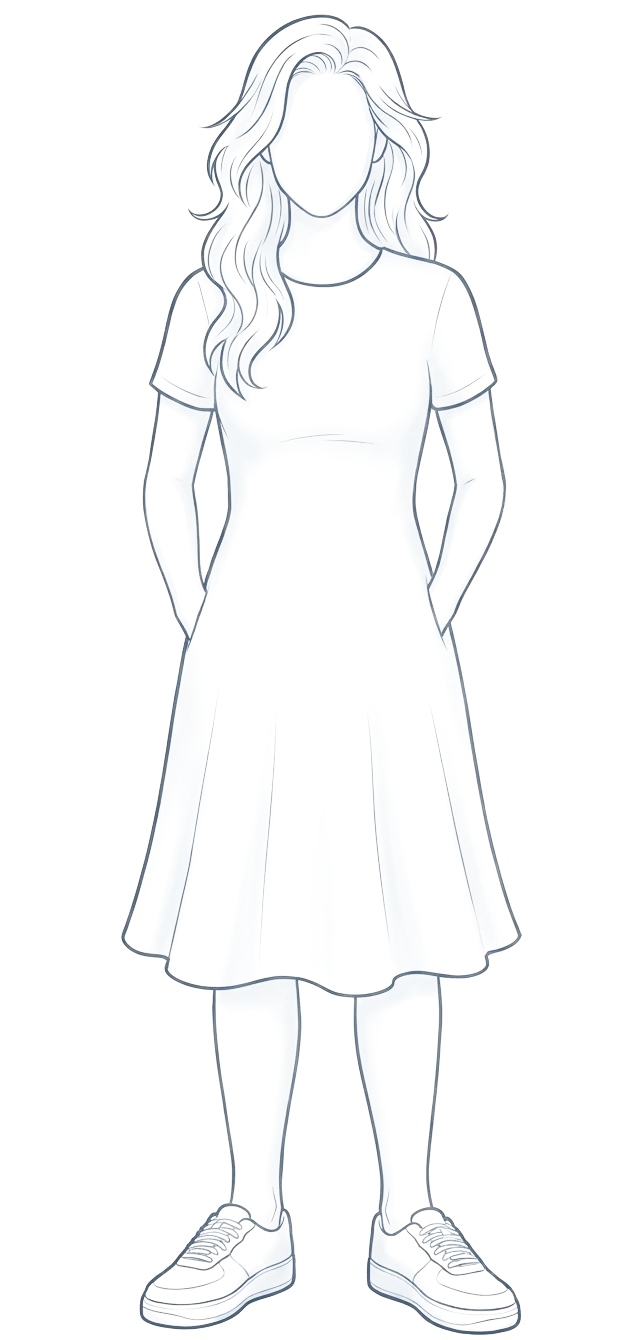
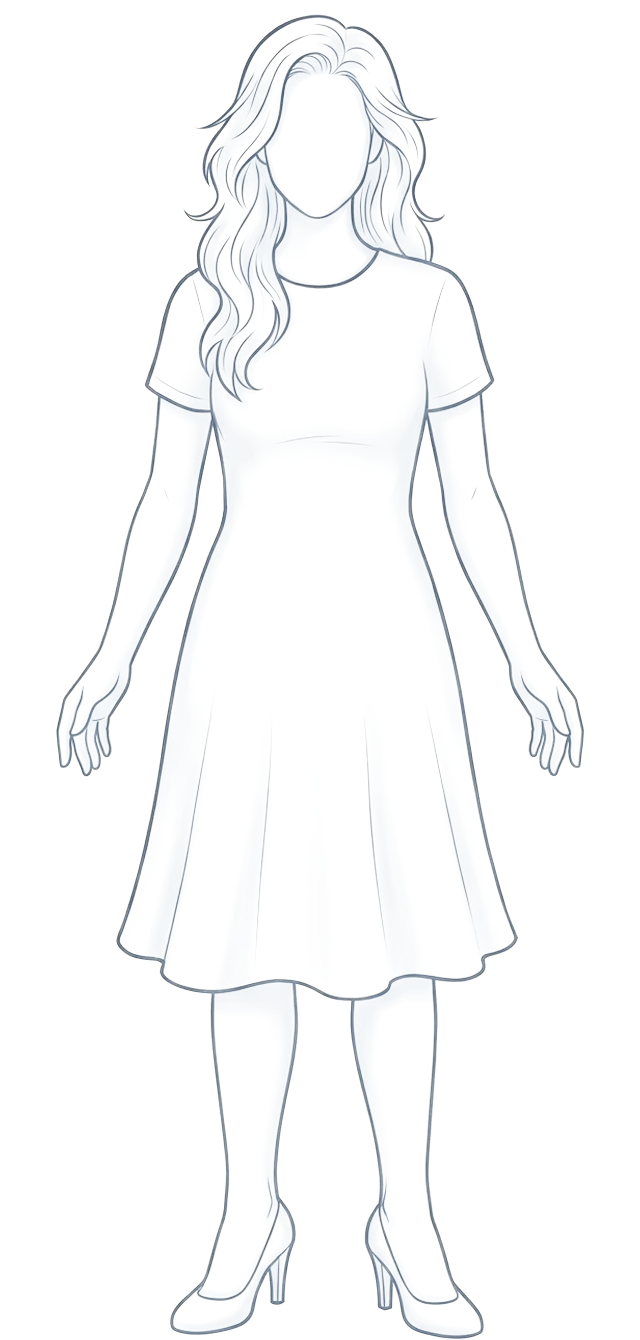
Líquidos: modelo feminino novo
Troca a arte feminina pela versão de braços soltos e salto, ajustada ao
mesmo quadro da masculina (altura e centro), com os traços e a máscara
refeitos a partir do novo desenho.

Claude-Session: https://claude.ai/code/session_017CZ48VrKLeT6nkCKkuk7PA

diff --git a/sw.js b/sw.js
@@ -1,6 +1,6 @@
 // Service worker do Leve: o app abre e funciona sem internet.
 // Ao publicar mudanças, aumente VERSION: é o que renova o que fica guardado para usar sem internet.
-const VERSION = 'leve-app-v29';
+const VERSION = 'leve-app-v30';
 const SHELL = [
   './', './index.html', './manifest.webmanifest', './css/app.css', './data/taco.json',
   './icons/icon.svg', './icons/icon-192.png', './icons/icon-512.png', './icons/apple-touch-icon.png',

diff --git a/DESIGN_SYSTEM.md b/DESIGN_SYSTEM.md
@@ -154,7 +154,7 @@ Conjunto próprio desenhado em `src/ui/dom.js` (`ICONS`), no espírito dos SF Sy
 - **Perguntas do cadastro** (`onboarding.js`): progresso em traços, título e texto centralizados, opções em cartões (`.opt`: ícone, título, descrição e marca de seleção; escolher não avança), régua deslizante para peso e altura (`.ruler`, com setas do teclado e arraste do mouse; peso em kg ou lb) e botão "Continuar" em cápsula no rodapé.
 - **Popover e menu** (`openPopover` em `dom.js`, `.popover`, `.menu`): painel de vidro preso ao botão que o abriu, com entrada em escala. Fecha ao tocar fora, com Esc, ao rolar ou redimensionar, e devolve o foco. Menus navegam com as setas.
 - **Pastilha de bebida** (`drinkBadge`): círculo na cor da bebida com o ícone em branco. A cor de cada bebida é a mesma no corpo, nos copos e nas listas (`DRINKS` em `hydration.js`).
-- **Corpo** (`bodyFigure` em `body.js`, arte em `img/body/`): ilustrações fornecidas pelo produto, uma feminina (vestido) e uma masculina (polo e calça), em traço azul-acinzentado, com as mãos nos bolsos e sem rosto. Cada figura é um par de imagens: os traços com fundo transparente (`*-lines.webp`) e a máscara do corpo (`*-mask.webp`), extraída do próprio desenho. O app pinta um fundo claro dentro da máscara, o líquido por cima (uma camada por bebida, na ordem do dia, também dentro da máscara) e os traços por último, então roupas e dobras continuam visíveis com o corpo cheio. Sobe em 1,1 s ao registrar; depois só a superfície ondula, devagar; bolhas nas bebidas com gás. Cheia ao bater a meta, sem passar dela. É uma representação da meta, não uma medida do corpo.
+- **Corpo** (`bodyFigure` em `body.js`, arte em `img/body/`): ilustrações fornecidas pelo produto, uma feminina (vestido, braços soltos e salto) e uma masculina (polo e calça, mãos nos bolsos), em traço azul-acinzentado e sem rosto. Cada figura é um par de imagens: os traços com fundo transparente (`*-lines.webp`) e a máscara do corpo (`*-mask.webp`), extraída do próprio desenho. O app pinta um fundo claro dentro da máscara, o líquido por cima (uma camada por bebida, na ordem do dia, também dentro da máscara) e os traços por último, então roupas e dobras continuam visíveis com o corpo cheio. Sobe em 1,1 s ao registrar; depois só a superfície ondula, devagar; bolhas nas bebidas com gás. Cheia ao bater a meta, sem passar dela. É uma representação da meta, não uma medida do corpo.
 - **Copos da semana** (`cupFigure`): um copo por dia, com as mesmas camadas; o contorno fica verde no dia que bateu a meta. Tocar abre um popover com o detalhe.
 - **Teclado numérico** (`.keypad`): só em telas de toque, na janela de bebida, para não abrir o teclado do sistema por cima da janela.
 
